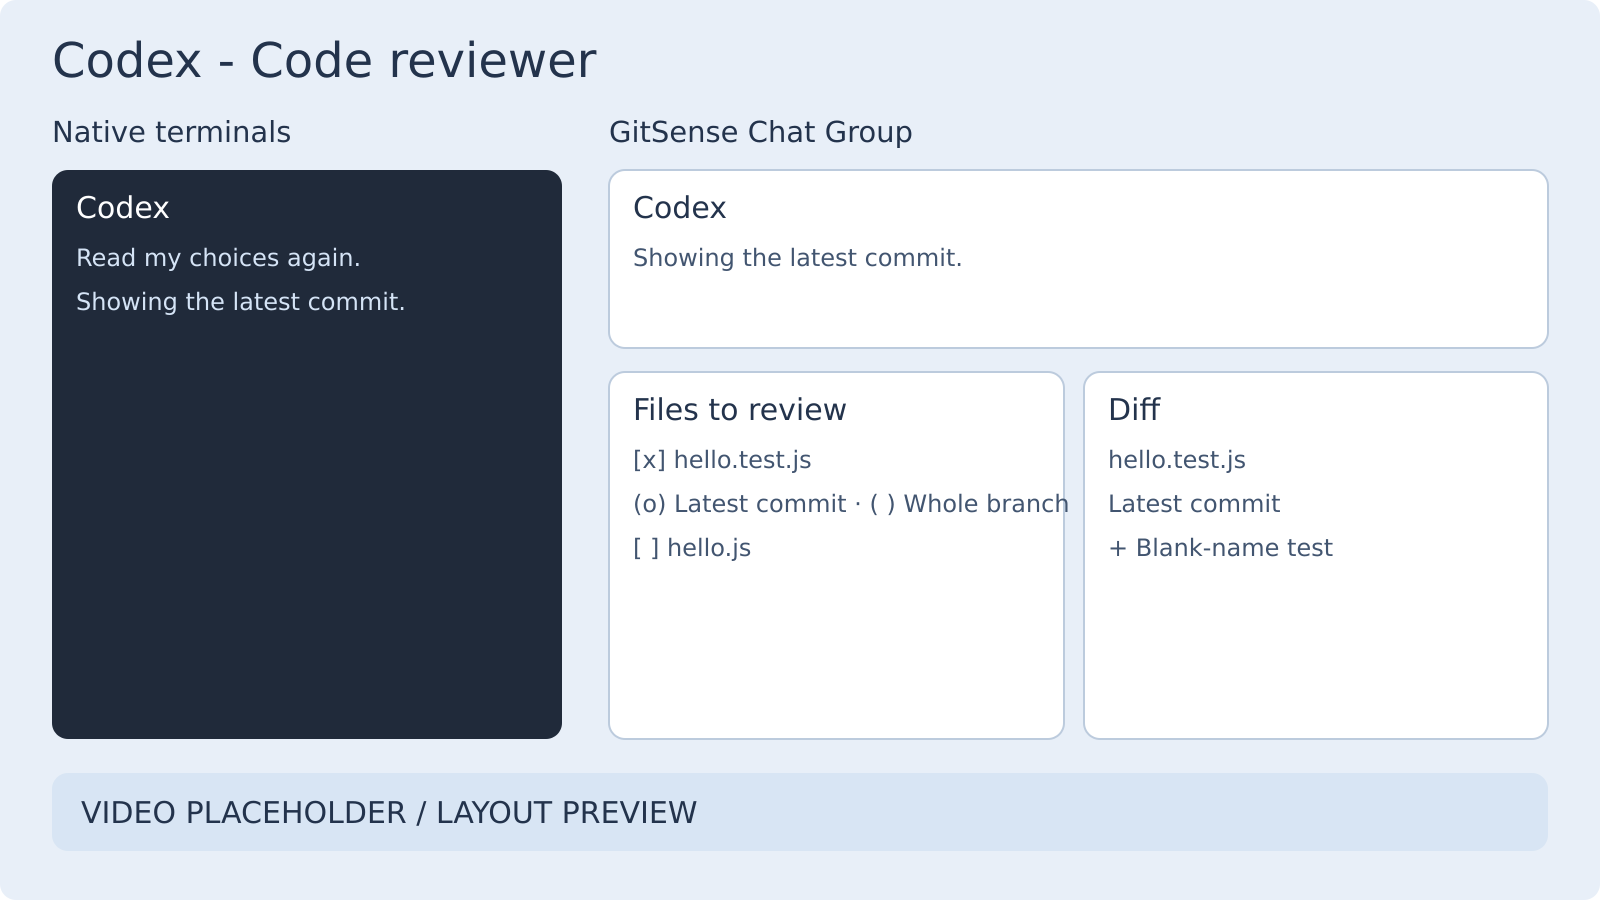
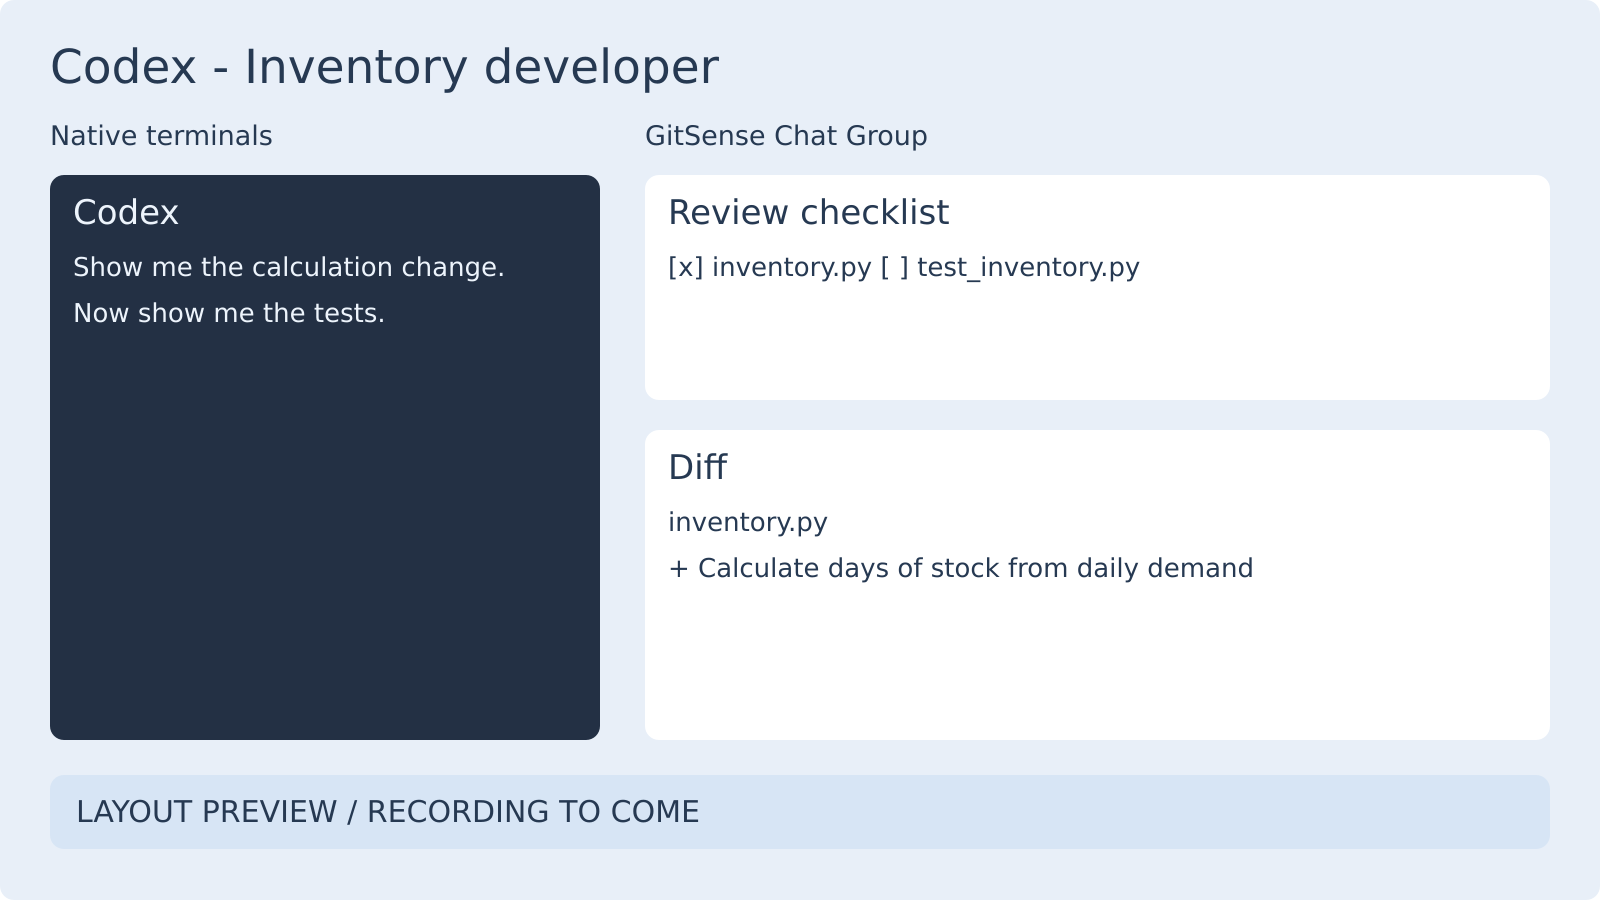
Show the ACME collaboration demo in the README

diff --git a/README-v2.md b/README-v2.md
@@ -5,7 +5,7 @@
 <p align="center">
   <a href="#quick-start">Quick start</a> &nbsp;·&nbsp;
   <a href="README-previous.md#runtime-details">Runtime details</a> &nbsp;·&nbsp;
-  <a href="#give-yourself-and-your-agents-a-shared-workspace">Work together</a> &nbsp;·&nbsp;
+  <a href="#give-yourself-and-your-agents-more-ways-to-collaborate">Work together</a> &nbsp;·&nbsp;
   <a href="README-previous.md#connect-agents-across-environments">Communicate</a> &nbsp;·&nbsp;
   <a href="README-previous.md#give-agents-a-better-starting-point">Share knowledge</a>
 </p>
@@ -30,29 +30,31 @@ Install and configure GitSense Chat for me. Start by running `gsc docs help`.
 
 You can also [build the CLI from source](https://github.com/gitsense/gsc-cli). See [Runtime details](README-previous.md#runtime-details) for Pi setup and bringing in sessions from other agents.
 
-## Give yourself and your agents a shared workspace
+## Give yourself and your agents more ways to collaborate
 
-Bring Claude Code and Codex into one Group, a shared space in GitSense Chat. Your agents stay in their own terminals. Their replies also appear in Chat, alongside the tables, notes, and diffs you work with together.
+Think of a GitSense Chat Group as a breakout room with whiteboards for the work you're doing together. Your agents stay in their own terminals while keeping results, decisions, and review notes visible in Chat. You can return to those details as the conversation moves on.
+
+In this demo, Claude Code puts the ACME inventory results in a table. You ask for a **Days of Stock** column, and Claude passes the request to Codex. You review the code with Codex, then Claude reruns the tool. The new column appears in the same table where you started.
 
 <img src="assets/readme-v2/work-together-overview-placeholder.png" alt="Layout preview: Claude Code and Codex in their native terminals on the left. In the Group on the right, Claude Code's mirrored reply sits beside an inventory table in the top row, and Codex's mirrored reply sits beside a file checklist and diff in the row below." width="100%">
 
-*Video placeholders. Recordings to come.*
+*Video placeholder. Recording to come. The previews below show two moments from the same demo.*
 
 <table>
   <tr>
     <td width="38%" valign="middle">
-      <h3>Claude Code - Inventory planner</h3>
-      <p>Ask Claude Code to plan for seven days of stock, then say, "Make that ten days. Keep the daily-demand estimates unchanged." Claude reruns the calculation. You can check what needs reordering in the same table card without it printing every row in its reply.</p>
+      <h3>Claude Code - Inventory QA</h3>
+      <p>Ask Claude to run ACME and put the results in a table. When you want to see how long the stock will last, ask Claude to send the request to Codex.</p>
     </td>
-    <td width="62%"><img src="assets/readme-v2/work-together-table-placeholder.png" alt="Video placeholder: Claude Code gets a request to plan for ten days of stock, and the inventory card shows the recalculated quantities." width="100%"></td>
+    <td width="62%"><img src="assets/readme-v2/work-together-table-placeholder.png" alt="Layout preview: Claude Code beside the ACME inventory table and the request for a Days of Stock column." width="100%"></td>
   </tr>
   <tr>
     <td width="38%" valign="middle">
-      <h3>Codex - Code reviewer</h3>
-      <p>Check the files you want to review and choose Latest commit or Whole branch for each. Ask Codex to read your choices and show the changes. Change the scope or select another file, then ask Codex to update the same diff card.</p>
-      <p>Use the diff menu to copy a command or open the comparison in your editor, depending on your setup.</p>
+      <h3>Codex - Inventory developer</h3>
+      <p>Review the calculation and tests with Codex. Mark files as reviewed in the checklist and ask Codex to switch files in the same diff card. You can also open the diff in Zed if you've configured it.</p>
+      <p>When you sign off, ask Codex to send Claude the reviewed revision. Claude checks the new calculation and updates the original table.</p>
     </td>
-    <td width="62%"><img src="assets/readme-v2/work-together-diff-placeholder.png" alt="Video placeholder: Codex uses saved file and scope choices from a checklist to update the diff card for hello.test.js." width="100%"></td>
+    <td width="62%"><img src="assets/readme-v2/work-together-diff-placeholder.png" alt="Layout preview: Codex beside a review checklist and a diff for the ACME inventory change." width="100%"></td>
   </tr>
 </table>
 

diff --git a/README.md b/README.md
@@ -5,7 +5,7 @@
 <p align="center">
   <a href="#quick-start">Quick start</a> &nbsp;·&nbsp;
   <a href="README-previous.md#runtime-details">Runtime details</a> &nbsp;·&nbsp;
-  <a href="#give-yourself-and-your-agents-a-shared-workspace">Work together</a> &nbsp;·&nbsp;
+  <a href="#give-yourself-and-your-agents-more-ways-to-collaborate">Work together</a> &nbsp;·&nbsp;
   <a href="README-previous.md#connect-agents-across-environments">Communicate</a> &nbsp;·&nbsp;
   <a href="README-previous.md#give-agents-a-better-starting-point">Share knowledge</a>
 </p>
@@ -30,29 +30,31 @@ Install and configure GitSense Chat for me. Start by running `gsc docs help`.
 
 You can also [build the CLI from source](https://github.com/gitsense/gsc-cli). See [Runtime details](README-previous.md#runtime-details) for Pi setup and bringing in sessions from other agents.
 
-## Give yourself and your agents a shared workspace
+## Give yourself and your agents more ways to collaborate
 
-Bring Claude Code and Codex into one Group, a shared space in GitSense Chat. Your agents stay in their own terminals. Their replies also appear in Chat, alongside the tables, notes, and diffs you work with together.
+Think of a GitSense Chat Group as a breakout room with whiteboards for the work you're doing together. Your agents stay in their own terminals while keeping results, decisions, and review notes visible in Chat. You can return to those details as the conversation moves on.
+
+In this demo, Claude Code puts the ACME inventory results in a table. You ask for a **Days of Stock** column, and Claude passes the request to Codex. You review the code with Codex, then Claude reruns the tool. The new column appears in the same table where you started.
 
 <img src="assets/readme-v2/work-together-overview-placeholder.png" alt="Layout preview: Claude Code and Codex in their native terminals on the left. In the Group on the right, Claude Code's mirrored reply sits beside an inventory table in the top row, and Codex's mirrored reply sits beside a file checklist and diff in the row below." width="100%">
 
-*Video placeholders. Recordings to come.*
+*Video placeholder. Recording to come. The previews below show two moments from the same demo.*
 
 <table>
   <tr>
     <td width="38%" valign="middle">
-      <h3>Claude Code - Inventory planner</h3>
-      <p>Ask Claude Code to plan for seven days of stock, then say, "Make that ten days. Keep the daily-demand estimates unchanged." Claude reruns the calculation. You can check what needs reordering in the same table card without it printing every row in its reply.</p>
+      <h3>Claude Code - Inventory QA</h3>
+      <p>Ask Claude to run ACME and put the results in a table. When you want to see how long the stock will last, ask Claude to send the request to Codex.</p>
     </td>
-    <td width="62%"><img src="assets/readme-v2/work-together-table-placeholder.png" alt="Video placeholder: Claude Code gets a request to plan for ten days of stock, and the inventory card shows the recalculated quantities." width="100%"></td>
+    <td width="62%"><img src="assets/readme-v2/work-together-table-placeholder.png" alt="Layout preview: Claude Code beside the ACME inventory table and the request for a Days of Stock column." width="100%"></td>
   </tr>
   <tr>
     <td width="38%" valign="middle">
-      <h3>Codex - Code reviewer</h3>
-      <p>Check the files you want to review and choose Latest commit or Whole branch for each. Ask Codex to read your choices and show the changes. Change the scope or select another file, then ask Codex to update the same diff card.</p>
-      <p>Use the diff menu to copy a command or open the comparison in your editor, depending on your setup.</p>
+      <h3>Codex - Inventory developer</h3>
+      <p>Review the calculation and tests with Codex. Mark files as reviewed in the checklist and ask Codex to switch files in the same diff card. You can also open the diff in Zed if you've configured it.</p>
+      <p>When you sign off, ask Codex to send Claude the reviewed revision. Claude checks the new calculation and updates the original table.</p>
     </td>
-    <td width="62%"><img src="assets/readme-v2/work-together-diff-placeholder.png" alt="Video placeholder: Codex uses saved file and scope choices from a checklist to update the diff card for hello.test.js." width="100%"></td>
+    <td width="62%"><img src="assets/readme-v2/work-together-diff-placeholder.png" alt="Layout preview: Codex beside a review checklist and a diff for the ACME inventory change." width="100%"></td>
   </tr>
 </table>
 
